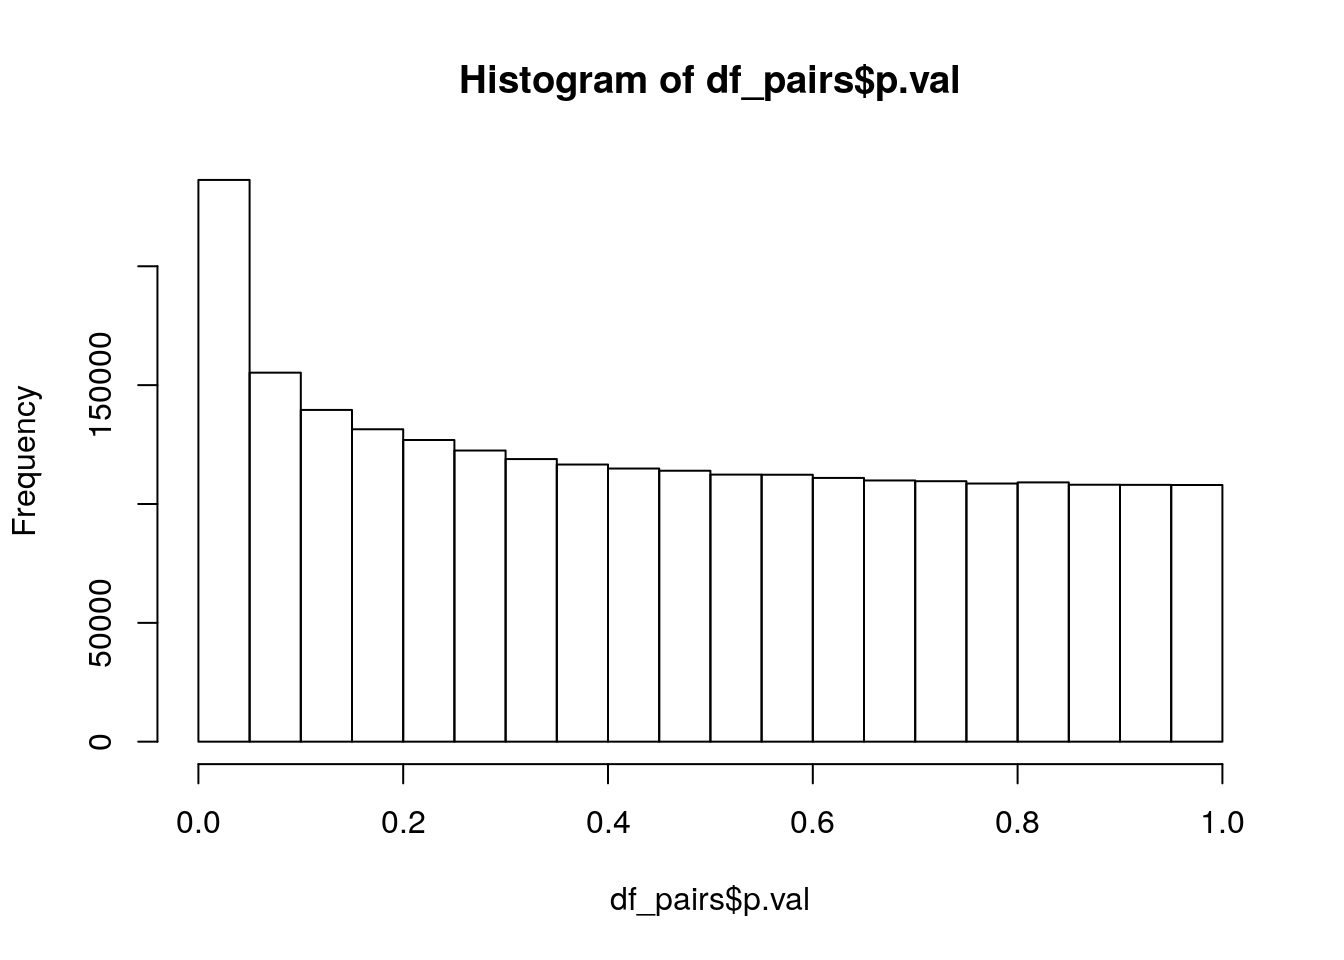
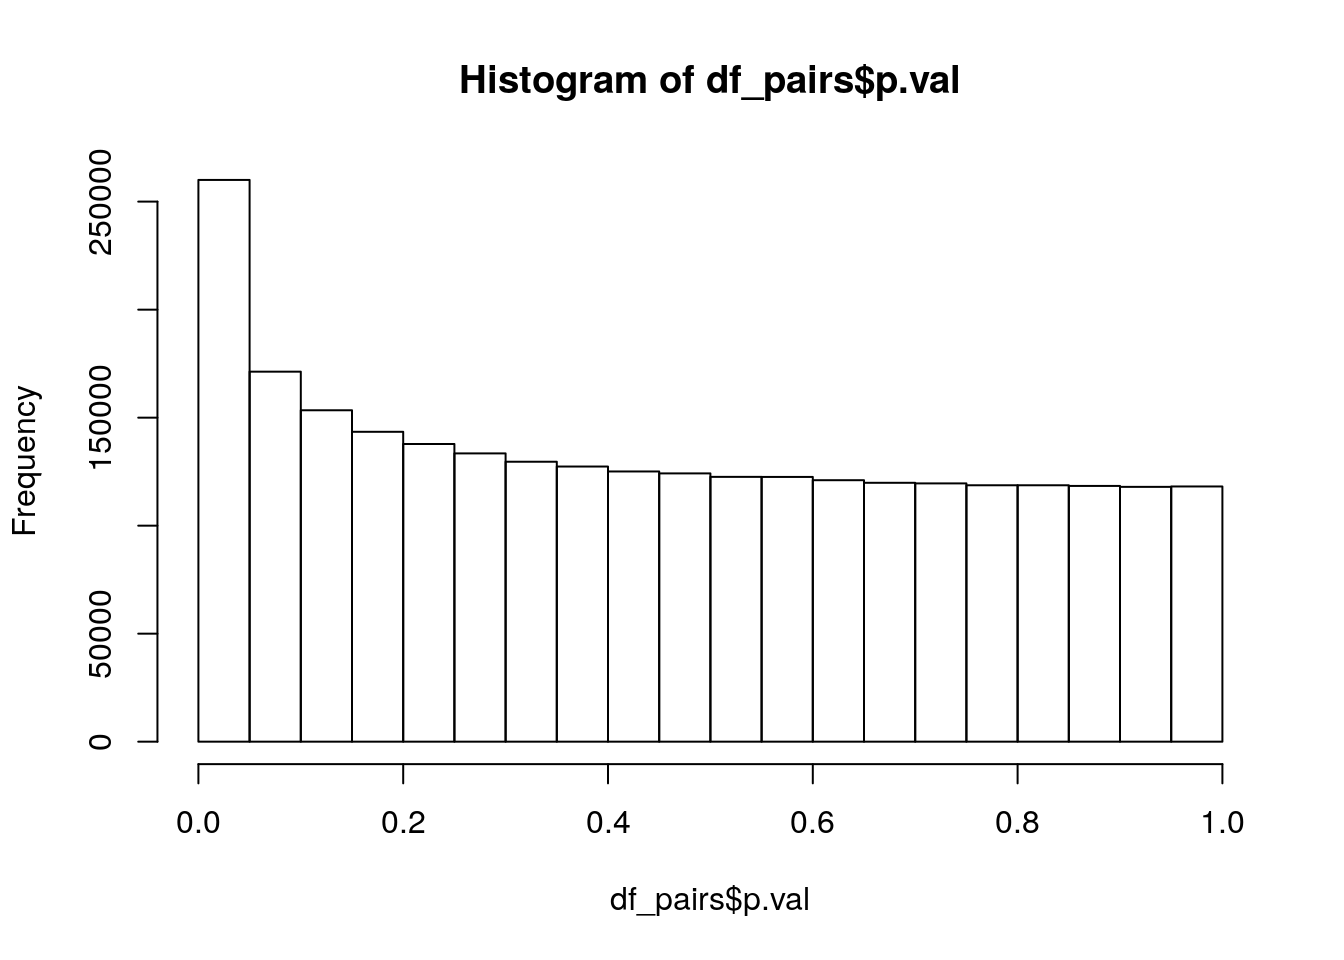
Build site.

diff --git a/docs/NBS_pairwise_tests.html b/docs/NBS_pairwise_tests.html
@@ -498,16 +498,16 @@ This reproducible <a href="http://rmarkdown.rstudio.com">R Markdown</a> analysis
 <div class="panel panel-default">
 <div class="panel-heading">
 <p class="panel-title">
-<a data-toggle="collapse" data-parent="#workflowr-checks" href="#strongRepositoryversionstrongahrefhttpsgithubcomArmadilloa16soybeanexplorationtreeb89d097ddf34ca4ae14eabcd61b9f0acb368a219targetblankb89d097a"> <span class="glyphicon glyphicon-ok text-success" aria-hidden="true"></span> <strong>Repository version:</strong> <a href="https://github.com/Armadilloa16/soybean_exploration/tree/b89d097ddf34ca4ae14eabcd61b9f0acb368a219" target="_blank">b89d097</a> </a>
+<a data-toggle="collapse" data-parent="#workflowr-checks" href="#strongRepositoryversionstrongahrefhttpsgithubcomArmadilloa16soybeanexplorationtree1459c97c1266112b8cb658635f00d0467ce8b496targetblank1459c97a"> <span class="glyphicon glyphicon-ok text-success" aria-hidden="true"></span> <strong>Repository version:</strong> <a href="https://github.com/Armadilloa16/soybean_exploration/tree/1459c97c1266112b8cb658635f00d0467ce8b496" target="_blank">1459c97</a> </a>
 </p>
 </div>
[2 lines of base64/hex data omitted]
 <div class="panel-body">
 <p>
 Great! You are using Git for version control. Tracking code development and connecting the code version to the results is critical for reproducibility.
 </p>
 <p>
-The results in this page were generated with repository version <a href="https://github.com/Armadilloa16/soybean_exploration/tree/b89d097ddf34ca4ae14eabcd61b9f0acb368a219" target="_blank">b89d097</a>. See the <em>Past versions</em> tab to see a history of the changes made to the R Markdown and HTML files.
+The results in this page were generated with repository version <a href="https://github.com/Armadilloa16/soybean_exploration/tree/1459c97c1266112b8cb658635f00d0467ce8b496" target="_blank">1459c97</a>. See the <em>Past versions</em> tab to see a history of the changes made to the R Markdown and HTML files.
 </p>
 <p>
 Note that you need to be careful to ensure that all relevant files for the analysis have been committed to Git prior to generating the results (you can use <code>wflow_publish</code> or <code>wflow_git_commit</code>). workflowr only checks the R Markdown file, but you know if there are other scripts or data files that it depends on. Below is the status of the Git repository when the results were generated:
@@ -516,6 +516,9 @@ Note that you need to be careful to ensure that all relevant files for the analy
 Ignored files:
     Ignored:    .Rhistory
     Ignored:    .Rproj.user/
+
+Untracked files:
+    Untracked:  output/pairwise_tests_all_orig.csv
 
 </code></pre>
 <p>
@@ -554,6 +557,40 @@ Message
 </tr>
 </thead>
 <tbody>
+<tr>
+<td>
+Rmd
+</td>
+<td>
+<a href="https://github.com/Armadilloa16/soybean_exploration/blob/1459c97c1266112b8cb658635f00d0467ce8b496/analysis/NBS_pairwise_tests.Rmd" target="_blank">1459c97</a>
+</td>
+<td>
+Lyron Winderbaum
+</td>
+<td>
+2021-05-17
+</td>
+<td>
+Fixed error in data caching and updated results to reflect fix
+</td>
+</tr>
+<tr>
+<td>
+html
+</td>
+<td>
+<a href="https://rawcdn.githack.com/Armadilloa16/soybean_exploration/6c7aa6925cbe430b6784032a449f29c187875db5/docs/NBS_pairwise_tests.html" target="_blank">6c7aa69</a>
+</td>
+<td>
+Lyron Winderbaum
+</td>
+<td>
+2021-05-17
+</td>
+<td>
+Build site.
+</td>
+</tr>
 <tr>
 <td>
 Rmd
@@ -782,7 +819,7 @@ row.names(pav_table) = pav_table$Line
 pav_table$Line = NULL</code></pre>
 <p>and we can repeat the pairwise test procedure:</p>
 <pre class="r"><code>gene_nms = names(pav_table)[-1]
-# source(file.path(&#39;analysis&#39;, &#39;pairwsie_tests_all.R&#39;))
+# source(file.path(&#39;analysis&#39;, &#39;pairwise_tests_all.R&#39;))
 df_pairs = read.csv(file.path(&#39;output&#39;, &#39;pairwise_tests_all.csv&#39;))
 df_pairs$gene.1 = gene_nms[df_pairs$gene.1]
 df_pairs$gene.2 = gene_nms[df_pairs$gene.2]
@@ -836,54 +873,63 @@ rbind(sig_lvl,
       p_vals = sapply(sig_lvl, function(x){return(sum(df_pairs$p.val &lt; x))}))</code></pre>
 <pre><code>            [,1]      [,2]     [,3]
 sig_lvl      0.1      0.05     0.01
-p_vals  391570.0 236331.00 76505.00</code></pre>
+p_vals  431342.0 260053.00 85290.00</code></pre>
 <p>and adjust for multiple testing using the Holm-Bonferroni method:</p>
 <pre class="r"><code>sig_lvl = c(0.1, 0.05, 0.01)
 rbind(sig_lvl,
       p_vals = sapply(sig_lvl, function(x){return(sum(df_pairs$p.val*(nrow(df_pairs):1) &lt; x))}))</code></pre>
-<pre><code>        [,1]  [,2]  [,3]
-sig_lvl  0.1  0.05  0.01
-p_vals  84.0 61.00 33.00</code></pre>
-<p>So which are these 37 interesting interactions significant at the 1% level after multiple test correction?</p>
+<pre><code>         [,1]  [,2]  [,3]
+sig_lvl   0.1  0.05  0.01
+p_vals  111.0 79.00 38.00</code></pre>
+<p>So which are these 38 interesting interactions significant at the 1% level after multiple test correction?</p>
 <pre class="r"><code>subset(df_pairs, p.val*(nrow(df_pairs):1) &lt; 0.01)</code></pre>
-<pre><code>           gene.1    gene.2        p.val
-3097588  UWA02279  UWA02696 6.146775e-13
-1542202  UWA00342  UWA00538 6.363480e-13
-2024585  UWA00863  UWA01138 4.987603e-12
-3189725  UWA02696  UWA04952 1.142622e-11
-1732291  UWA00538  UWA02709 1.343754e-11
-1623532  UWA00424  UWA02696 1.408472e-11
-1428447  UWA00241  UWA01567 1.810912e-11
-1038728 GL18G1234  UWA00380 7.721450e-11
-1356040  UWA00182  UWA00538 9.987116e-11
-1042318 GL18G1267  UWA03220 2.077257e-10
-1040101 GL18G1234  UWA03220 2.603432e-10
-2628157  UWA01537  UWA03107 2.879676e-10
-2459484  UWA01367  UWA02285 2.956599e-10
-2357075  UWA01224  UWA01345 3.966186e-10
-2581604  UWA01489  UWA04190 6.680222e-10
-134582  GL03G0315  UWA01036 6.977990e-10
-1493252  UWA00298  UWA01985 7.364664e-10
-1040945 GL18G1267  UWA00380 7.871351e-10
-943086  GL17G1410  UWA01538 9.280403e-10
-942572  GL17G1410  UWA00636 9.899005e-10
-1368915  UWA00189  UWA01420 1.267221e-09
-1480419  UWA00291  UWA00538 1.676407e-09
-1026151 GL18G0922  UWA01693 1.959441e-09
-1378575  UWA00201  UWA00220 2.090802e-09
-1405736  UWA00223  UWA01138 2.826983e-09
-738653  GL15G0651  UWA03178 3.051131e-09
-1523367  UWA00318  UWA02285 3.115504e-09
-1025597 GL18G0922  UWA00780 3.414061e-09
-1427774  UWA00241  UWA00363 3.562766e-09
-2226649  UWA01087  UWA01293 3.717602e-09
-1940091  UWA00773  UWA02820 3.894434e-09
-540811  GL09G1235 GL09G1453 3.896788e-09
-1731950  UWA00538  UWA01863 4.026035e-09</code></pre>
-<p>Do any of these interactions involve NBS genes? Yes! Are any of these interactions between NBS genes? No! GL15G1995, UWA00005, UWA00202, UWA01330, and UWA05312 are NBS genes, so the below is the subset of interactions significant at the 1% level after multiple testing correction that involve NBS genes:</p>
+<pre><code>           gene.1   gene.2        p.val
+1346684  UWA00331 UWA03376 1.102856e-13
+1141561  UWA00124 UWA05001 1.958727e-13
+2451105  UWA01903 UWA02125 6.146775e-13
+1193847  UWA00183 UWA00331 6.363480e-13
+1649641  UWA00731 UWA04571 2.944997e-12
+2552295  UWA02183 UWA04253 2.986282e-12
+1580983  UWA00627 UWA00884 4.987603e-12
+2525414  UWA02125 UWA03239 1.142622e-11
+1346205  UWA00331 UWA02131 1.343754e-11
+1260127  UWA00245 UWA02125 1.408472e-11
+1100273  UWA00078 UWA01330 1.810912e-11
+795203  GL16G1461 UWA00222 7.721450e-11
+1046103  UWA00005 UWA00331 9.987116e-11
+2785774  UWA05056 UWA05133 1.664597e-10
+798428  GL16G1462 UWA02466 2.077257e-10
+796434  GL16G1461 UWA02466 2.603432e-10
+2061196  UWA01259 UWA02319 2.879676e-10
+1923840  UWA01081 UWA01910 2.956599e-10
+1841404  UWA00988 UWA01064 3.966186e-10
+2126279  UWA01381 UWA03673 5.026466e-10
+2023626  UWA01210 UWA03078 6.680222e-10
+103727  GL03G0274 UWA00771 6.977990e-10
+2497372  UWA02062 UWA03639 7.710352e-10
+797197  GL16G1462 UWA00222 7.871351e-10
+723312  GL15G1995 UWA01260 9.280403e-10
+722857  GL15G1995 UWA00411 9.899005e-10
+1055830  UWA00014 UWA01135 1.267221e-09
+1143517  UWA00126 UWA00331 1.676407e-09
+785873  GL16G1403 UWA01438 1.959441e-09
+1064550  UWA00023 UWA00045 2.090802e-09
+1924575  UWA01081 UWA04457 2.398337e-09
+2770651  UWA03673 UWA04229 2.679098e-09
+1088998  UWA00054 UWA00884 2.826983e-09
+562540  GL12G1178 UWA02412 3.051131e-09
+1176847  UWA00163 UWA01910 3.115504e-09
+1346778  UWA00331 UWA03891 3.330527e-09
+785386  GL16G1403 UWA00543 3.414061e-09
+1099677  UWA00078 UWA00202 3.562766e-09</code></pre>
+<p>Do any of these interactions involve NBS genes? Yes! UWA00005, GL15G1995, UWA01330, and UWA00202. Are any of these interactions between NBS genes? No! they are all pairs of one NBS gene to one non-NBS gene:</p>
 <pre class="r"><code>subset(df_pairs, p.val*(nrow(df_pairs):1) &lt; 0.01 &amp; (gene.1 %in% names(nbs_table)[-1] | gene.2 %in% names(nbs_table)[-1]))</code></pre>
-<pre><code>          gene.1   gene.2        p.val
-1378575 UWA00201 UWA00220 2.090802e-09</code></pre>
+<pre><code>           gene.1   gene.2        p.val
+1100273  UWA00078 UWA01330 1.810912e-11
+1046103  UWA00005 UWA00331 9.987116e-11
+723312  GL15G1995 UWA01260 9.280403e-10
+722857  GL15G1995 UWA00411 9.899005e-10
+1099677  UWA00078 UWA00202 3.562766e-09</code></pre>
 <br>
 <p>
 <button type="button" class="btn btn-default btn-workflowr btn-workflowr-sessioninfo" data-toggle="collapse" data-target="#workflowr-sessioninfo" style="display: block;">
